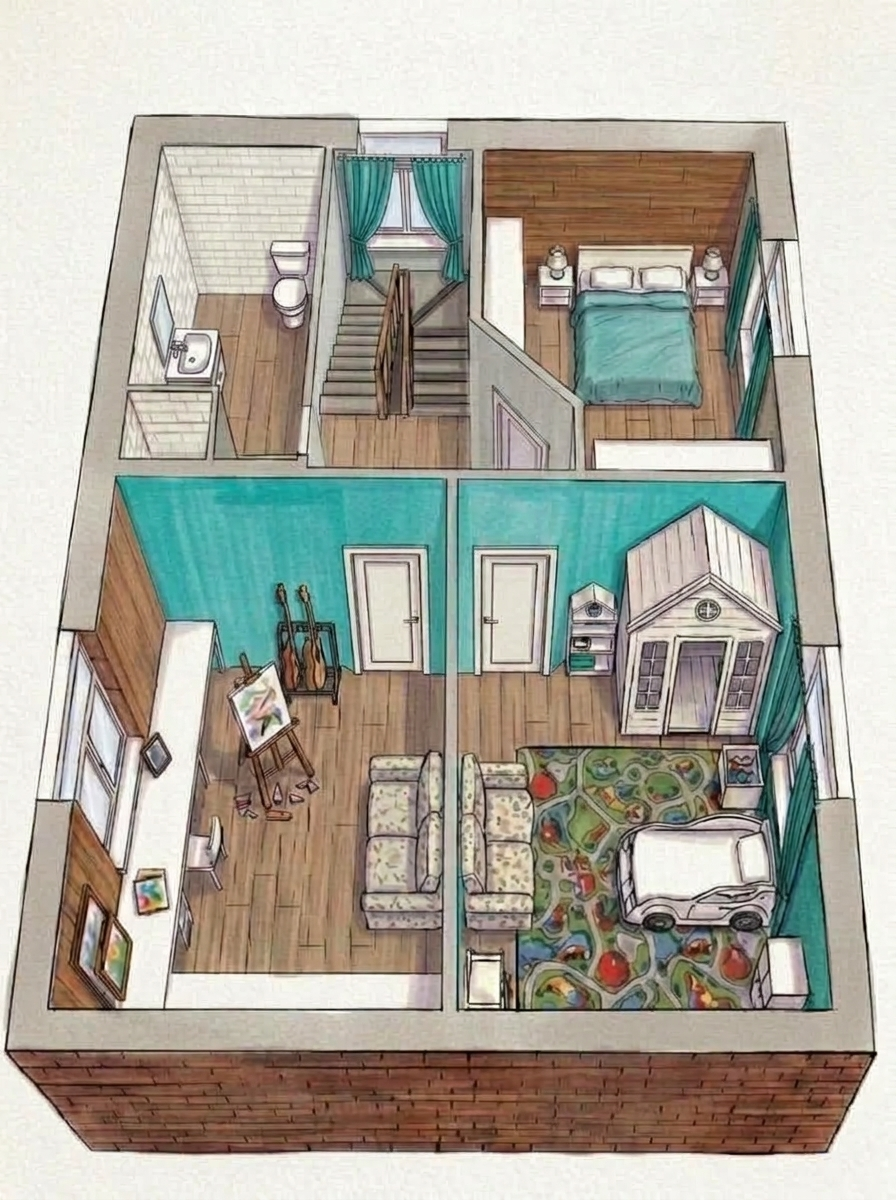
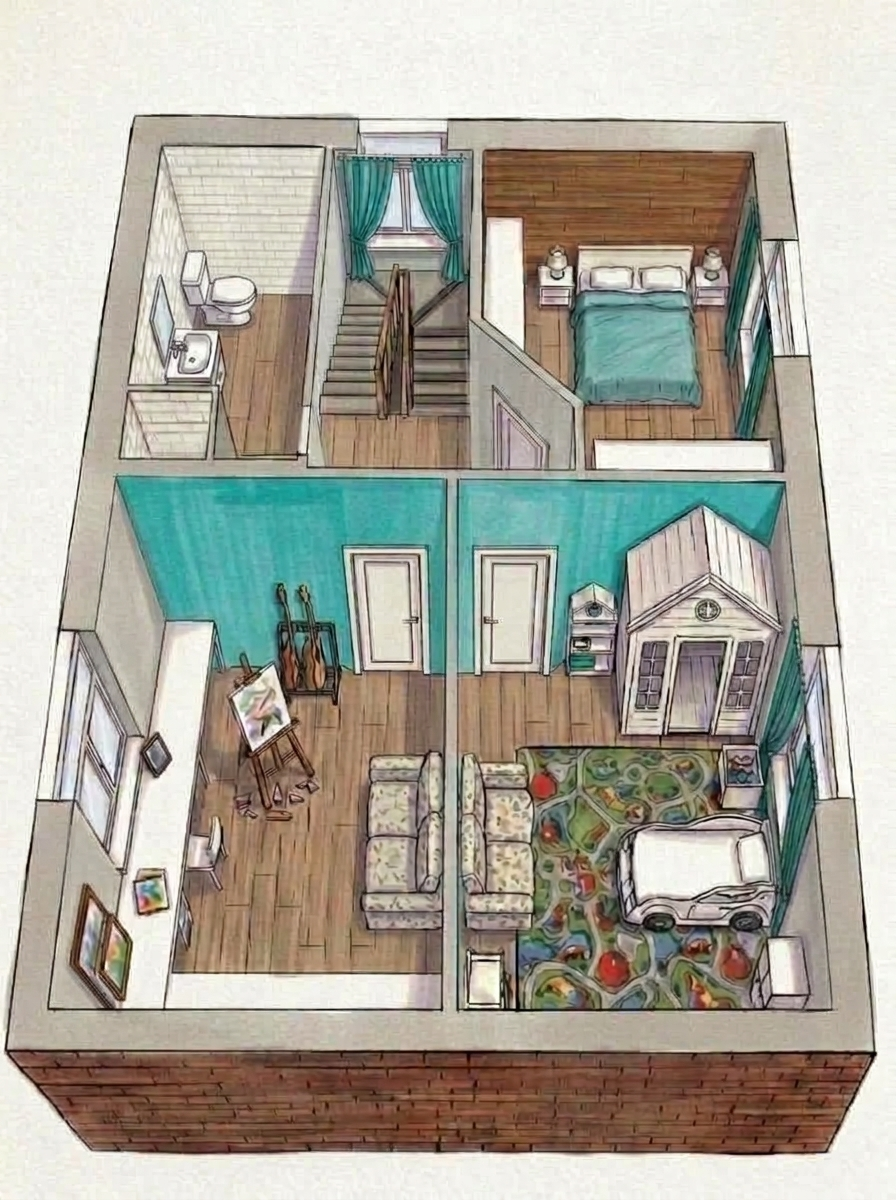
fix(house-case): update floor 2 sketch with toilet rotated along sink wall and grey window walls

diff --git a/components/cases/house-case.tsx b/components/cases/house-case.tsx
@@ -118,9 +118,9 @@ const FLOOR_SKETCHES: Record<1 | 2, {
       },
       {
         id: 2,
-        title: "Стол-подоконник до бирюзовой стены",
+        title: "Стол-подоконник у серой стены",
         tag: "Мастерская",
-        desc: "Сплошной белый подоконник-стол во всю стену у окна, доходящий вплотную до бирюзовой стены, и мольберт для живописи.",
+        desc: "Сплошной белый подоконник-стол вдоль серой стены с окном, доходящий вплотную до бирюзовой стены, и мольберт для живописи.",
         x: 22,
         y: 67,
       },
@@ -142,9 +142,9 @@ const FLOOR_SKETCHES: Record<1 | 2, {
       },
       {
         id: 5,
-        title: "Сплошная бирюзовая стена",
-        tag: "Цветовой акцент",
-        desc: "Стена с дверями в обеих нижних комнатах целиком выкрашена в насыщенный бирюзовый оттенок с белыми дверными полотнами.",
+        title: "Бирюзовая стена & Серые стены с окнами",
+        tag: "Цветовой баланс",
+        desc: "Стена с дверями целиком выкрашена в насыщенную бирюзу, а внешние стены с окнами в обеих комнатах выполнены в спокойном светло-сером цвете.",
         x: 50,
         y: 46,
       },
@@ -152,9 +152,9 @@ const FLOOR_SKETCHES: Record<1 | 2, {
         id: 6,
         title: "Санузел 2-го этажа",
         tag: "Санузел 2F",
-        desc: "Ванная комната с белой плиткой кабанчик, деревянным полом и естественным светом из холла.",
-        x: 26,
-        y: 22,
+        desc: "Ванная комната с белой плиткой кабанчик: раковина и унитаз выстроены вдоль одной левой стены, деревянный пол.",
+        x: 24,
+        y: 24,
       },
       {
         id: 7,
